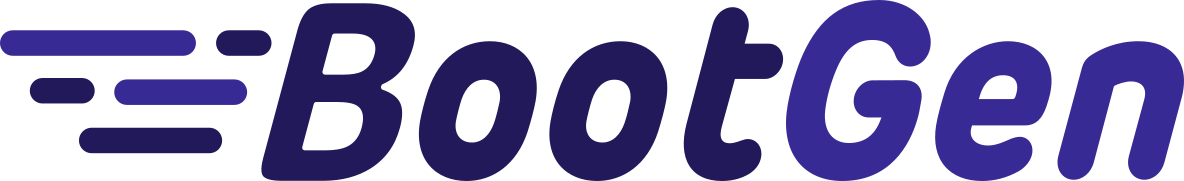
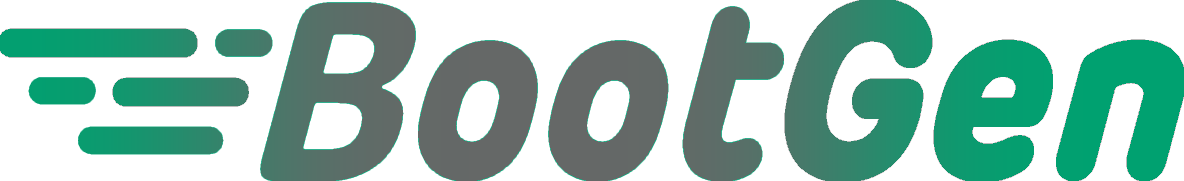
Light/Dark themes color and position

diff --git a/ClientApp/src/components/HeadBar.vue b/ClientApp/src/components/HeadBar.vue
@@ -1,16 +1,23 @@
 <template>
   <v-container fluid>
     <v-row>
-      <v-col cols="12" class="pa-0 d-flex align-center">
-        <v-toolbar-title class="font-weight-light mr-2">Editor -</v-toolbar-title>
-        <ValidationObserver>
-          <ValidationProvider v-slot="{ errors }" name="Project name" rules="required">
-            <v-text-field v-model="activeProjectName" placeholder="Name your project" type="text" :error-messages="errors" required @input="changeName"></v-text-field>
-          </ValidationProvider>
-        </ValidationObserver>
-        <v-btn class="mr-0 ml-3" color="primary" small @click="dialog = true" v-if="$store.state.auth.jwt">New project</v-btn>
-        <v-spacer v-if="!$store.state.auth.jwt"></v-spacer>
-        <div class="d-flex align-center" @click="toLogin()" v-if="!$store.state.auth.jwt"><span class="pr-1">for save</span><router-link to="/login">sign in</router-link></div>
+      <v-col cols="12" class="pa-0 d-flex align-center justify-space-between flex-wrap">
+        <div class="d-flex align-center">
+          <v-toolbar-title class="font-weight-light mr-2">Editor -</v-toolbar-title>
+          <ValidationObserver>
+            <ValidationProvider v-slot="{ errors }" name="Project name" rules="required">
+              <v-text-field v-model="activeProjectName" placeholder="Name your project" type="text" :error-messages="errors" required @input="changeName"></v-text-field>
+            </ValidationProvider>
+          </ValidationObserver>
+          <v-btn class="mr-0 ml-3" color="primary" small @click="dialog = true" v-if="$store.state.auth.jwt">New project</v-btn>
+        </div>
+        <div class="d-flex align-center mr-5">
+          <span class="mr-5" v-if="!$store.state.auth.jwt">for save<router-link class="pl-2" to="/login" @click="toLogin()">sign in</router-link></span>
+          <v-switch
+            v-model="darkTheme"
+            label="Dark Mode"
+          ></v-switch>
+        </div>
       </v-col>
     </v-row>
     <v-dialog v-model="dialog" width="400" persistent>
@@ -48,7 +55,6 @@
 
 <script lang="ts">
 import Vue from 'vue';
-import { Project } from '../models/Project';
 import { required } from 'vee-validate/dist/rules';
 import { extend, ValidationObserver, ValidationProvider } from 'vee-validate';
 
@@ -71,6 +77,20 @@ export default Vue.extend({
       type: Array as () => Array<string>
     },
   },
+  mounted(){
+    if(localStorage.darkTheme === 'true'){
+      this.darkTheme = true;
+    }else{
+      this.darkTheme = false;
+    }
+  },
+  watch:{
+    darkTheme(dark){
+      this.$gtag?.event('change-theme');
+      localStorage.darkTheme = dark;
+      this.$vuetify.theme.dark = dark;
+    }
+  },
   data: function () {
     return {
       errorMsg: false,
@@ -78,6 +98,7 @@ export default Vue.extend({
       projectName: 'My Project',
       backend: 'ASP.NET',
       frontend: 'Vue 2 + JS',
+      darkTheme: false
     };
   },
   methods: {
@@ -106,9 +127,3 @@ export default Vue.extend({
   }
 });
 </script>
-<style scoped>
-
-.theme--dark a{
-  color: #8b949e!important;
-}
-</style>

diff --git a/ClientApp/src/App.vue b/ClientApp/src/App.vue
@@ -49,25 +49,26 @@
             <v-btn color="primary" @click="customizeCookies()" small>customize</v-btn>
           </div>
         </div>
-        <v-switch
-          v-model="darkTheme"
-          label="Dark Mode"
-        ></v-switch>
         <a class="repositoryLink" href="https://github.com/BootGen/Editor" target="_blank" @click="openGithub()">
           <v-icon class="pr-2">mdi-github</v-icon>
           github.com/BootGen/Editor
         </a>
       </div>
     </v-navigation-drawer>
-
-    <v-app-bar app color="transparent" flat height="75" class="navPosition" :data-value="$route.name !== 'Editor'">
-      <v-btn class="mr-3" @click="setNavDraver()" elevation="1" fab small>
-        <v-icon v-if="drawer">mdi-dots-vertical</v-icon>
-        <v-icon v-else>mdi-view-quilt</v-icon>
-      </v-btn>
-      <v-toolbar-title class="hidden-sm-and-down font-weight-light" v-if="$route.name !== 'Editor'">{{ $route.name }}</v-toolbar-title>
-    </v-app-bar>
-
+    <div class="d-flex mr-5">
+      <v-app-bar app color="transparent" flat height="75" class="navPosition" :data-value="$route.name !== 'Editor'">
+        <v-btn class="mr-3" @click="setNavDraver()" elevation="1" fab small>
+          <v-icon v-if="drawer">mdi-dots-vertical</v-icon>
+          <v-icon v-else>mdi-view-quilt</v-icon>
+        </v-btn>
+        <v-toolbar-title class="hidden-sm-and-down font-weight-light" v-if="$route.name !== 'Editor'">{{ $route.name }}</v-toolbar-title>
+      </v-app-bar>
+      <v-switch
+        v-if="$route.name !== 'Editor'"
+        v-model="darkTheme"
+        label="Dark Mode"
+      ></v-switch>
+    </div>
     <v-main>
       <v-container fluid>
         <router-view></router-view>
@@ -107,6 +108,13 @@ export default {
   mounted(){
     if(localStorage.cookieConsentAnswered) this.cookieConsentAnswered = localStorage.cookieConsentAnswered;
     if(localStorage.cookiesAccepted) this.cookiesAccepted = localStorage.cookiesAccepted;
+    if(localStorage.darkTheme === 'true'){
+      this.darkTheme = true;
+    }else{
+      this.darkTheme = false;
+    }
+  },
+  updated: function(){
     if(localStorage.darkTheme === 'true'){
       this.darkTheme = true;
     }else{
@@ -188,10 +196,7 @@ export default {
   main{
     padding-top: unset!important;
   }
-  .navPosition[data-value=true]{
-    position: inherit!important;
-  }
-  .navPosition[data-value=false]{
+  .navPosition{
     position: absolute!important;
   }
   .navCookie{

diff --git a/ClientApp/src/views/NotFound.vue b/ClientApp/src/views/NotFound.vue
@@ -5,12 +5,12 @@
         <div class="d-flex flex-column text-center align-center">
           <div class="d-flex">
             <h1 class="errorCode">4</h1>
-            <v-icon color="#22195B" size="9rem">mdi-emoticon-dead-outline </v-icon>
+            <v-icon color="#00A170" size="9rem">mdi-emoticon-dead-outline </v-icon>
             <h1 class="errorCode">4</h1>
           </div>
           <h2 class="response">Page not found</h2>
           <h3>The page you are looking for was moved, removed, renamed or might never existed.</h3>
-          <v-btn class="mt-5" color="primary" rounded to="/">Go to home</v-btn>
+          <v-btn class="ma-0 mt-5" color="primary" rounded to="/">Go to home</v-btn>
         </div>
       </v-col>
     </v-row>
@@ -33,12 +33,12 @@ export default Vue.extend({
 <style scoped>
   h1.errorCode{
     font-size: 10rem;
-    color: #22195B;
+    color: #00A170;
     line-height: 1;
-    text-shadow: 3px 3px 0px #eee, 6px 6px 0px #412fb3;
+    text-shadow: 3px 3px 0px #eee, 6px 6px 0px #656867;
   }
   .response{
     font-size: 3.75rem;
-    color: #412fb3;
+    color: #656867;
   }
 </style>

diff --git a/ClientApp/src/views/Editor.vue b/ClientApp/src/views/Editor.vue
@@ -1,7 +1,7 @@
 <template>
   <v-container fluid class="editor">
     <v-row class="d-flex align-center ma-0 pa-0">
-      <v-col lg="5" md="6" sm="8" cols="12" class="pa-0 headBar" v-if="$store.state.auth.jwt">
+      <v-col cols="12" class="pa-0 headBar" v-if="$store.state.auth.jwt">
         <head-bar :activeProjectName="activeProject.name" :backends="backends" :frontends="frontends" @new-project="createNewProject" @change-project-name="changeProjectName"></head-bar>
       </v-col>
       <v-col cols="12" class="pa-0 headBar" v-else>
@@ -301,7 +301,7 @@ export default Vue.extend({
             const compare = new Compare(this.activeFile.content.split('\n'), this.previousFiles[i].content.split('\n'));
             const changes = compare.getChanges();
             changes.forEach(v =>{
-              this.highlightedDifferences.push({ line : v, color:'#412fb3' })
+              this.highlightedDifferences.push({ line : v, color:'#656867' })
             })
             break;
           }

diff --git a/ClientApp/src/plugins/vuetify.ts b/ClientApp/src/plugins/vuetify.ts
@@ -5,10 +5,10 @@ import '@/sass/overrides.sass'
 Vue.use(Vuetify)
 
 const lightTheme = {
-  primary: '#22195B',
-  secondary: '#412fb3',
-  third: '#22195b',
-  accent: '#412fb3',
+  primary: '#00A170',
+  secondary: '#656867',
+  third: '#00A170',
+  accent: '#656867',
   info: '#00CAE3',
   orange: '#F78C6C',
   green: '#C3E88D',
@@ -16,10 +16,10 @@ const lightTheme = {
 }
 
 const darkTheme = {
-  primary: '#22195B',
-  secondary: '#412fb3',
-  third: '#22195b',
-  accent: '#412fb3',
+  primary: '#00A170',
+  secondary: '#656867',
+  third: '#00A170',
+  accent: '#656867',
   info: '#00CAE3',
   white: '#eee',
   orange: '#F78C6C',

diff --git a/ClientApp/src/views/SignUp.vue b/ClientApp/src/views/SignUp.vue
@@ -52,7 +52,7 @@
                     prepend-icon="mdi-form-textbox-password"
                   ></v-text-field>
                 </ValidationProvider>
-                <v-checkbox color="secondary" v-model="newsletter" label="Sign me up for the newsletter!"></v-checkbox>
+                <v-checkbox color="primary" v-model="newsletter" label="Sign me up for the newsletter!"></v-checkbox>
                 <v-alert class="text-left" type="error" v-if="errorMsg">{{ errorMsg }}</v-alert>
                 <div class="text-center">
                   <v-btn color="primary" large @click="trySignUp" :disabled="invalid">Sign up</v-btn>

diff --git a/ClientApp/src/views/Profile.vue b/ClientApp/src/views/Profile.vue
@@ -30,7 +30,7 @@
                     :error-messages="errors"
                   ></v-text-field>
                 </ValidationProvider>
-                <v-checkbox color="secondary" v-model="$store.state.auth.user.newsletter" label="Sign me up for the newsletter!"></v-checkbox>
+                <v-checkbox color="primary" v-model="$store.state.auth.user.newsletter" label="Sign me up for the newsletter!"></v-checkbox>
                 <v-alert type="error" v-if="errorMsg">{{ errorMsg }}</v-alert>
                 <v-alert type="success" v-if="successMsg">{{ successMsg }}</v-alert>
                 <div class="text-right">

diff --git a/ClientApp/src/views/PrivacyPolicy.vue b/ClientApp/src/views/PrivacyPolicy.vue
@@ -6,7 +6,7 @@
             We use Google Analytics cookies. You can turn them on or off with this checkbox:
           </p>
           <v-checkbox
-            color="secondary"
+            color="primary"
             v-model="cookiesAccepted"
             label="Accept Google Analytics cookies"
           ></v-checkbox>
@@ -538,8 +538,5 @@ export default Vue.extend({
   padding-bottom: 50px;
   padding-left: 12%;
   padding-right: 12%;
-}
-.theme--dark a{
-  color: #8b949e!important;
 }
 </style>

diff --git a/ClientApp/src/components/base/MaterialCard.vue b/ClientApp/src/components/base/MaterialCard.vue
@@ -9,7 +9,7 @@
         v-if="avatar"
         size="128"
         class="mx-auto v-card--material__avatar elevation-6"
-        color="#9090f9"
+        color="#9fe0ab"
       >
         <v-img
           max-height="128"

diff --git a/ClientApp/src/sass/overrides.sass b/ClientApp/src/sass/overrides.sass
@@ -51,6 +51,4 @@
 
 .theme--dark .v-card
   background-color: #212121
-
-.theme--dark footer a
-  color: #8b949e!important
+  
